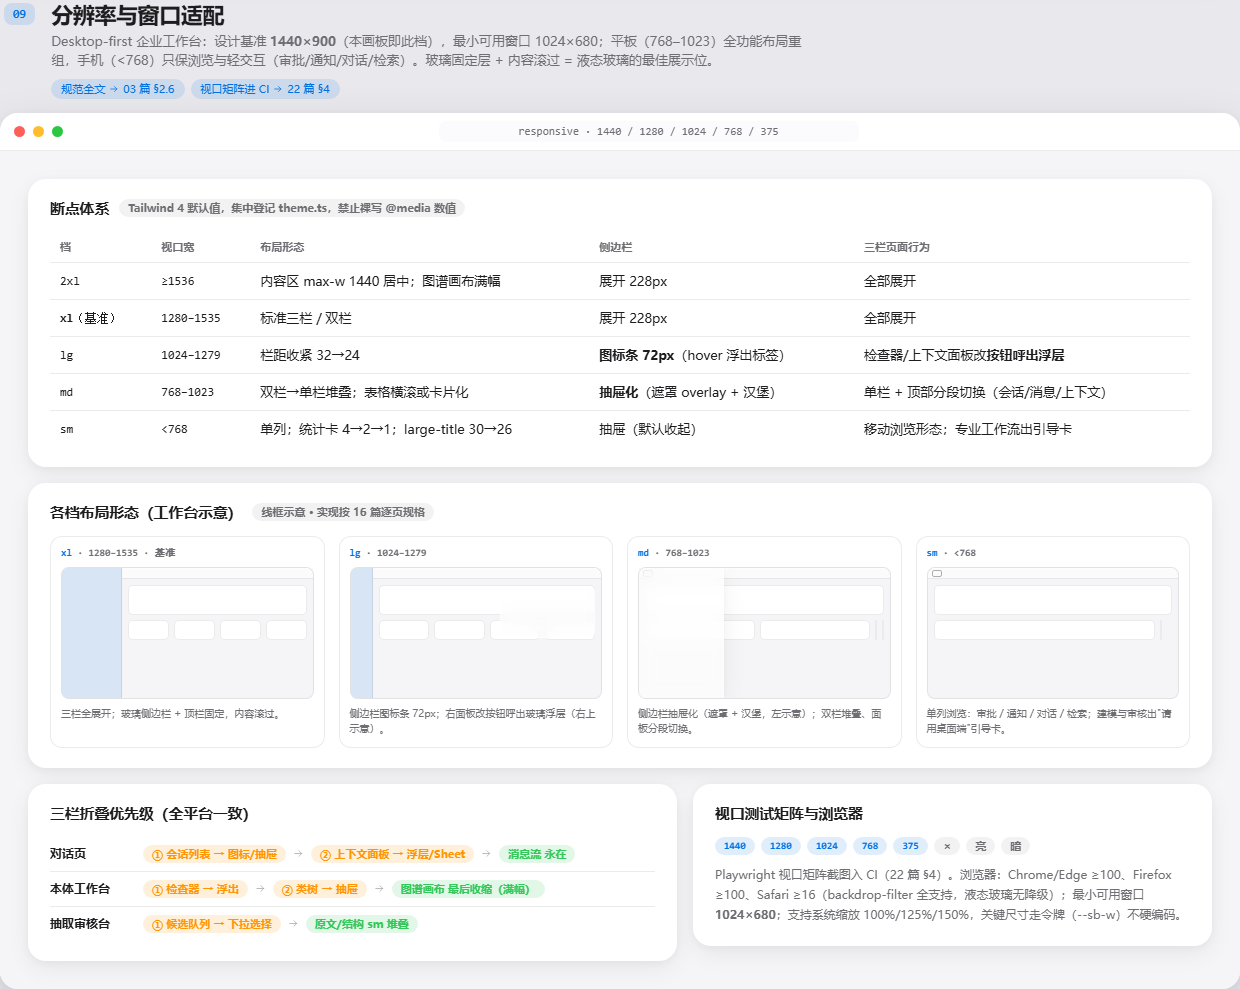
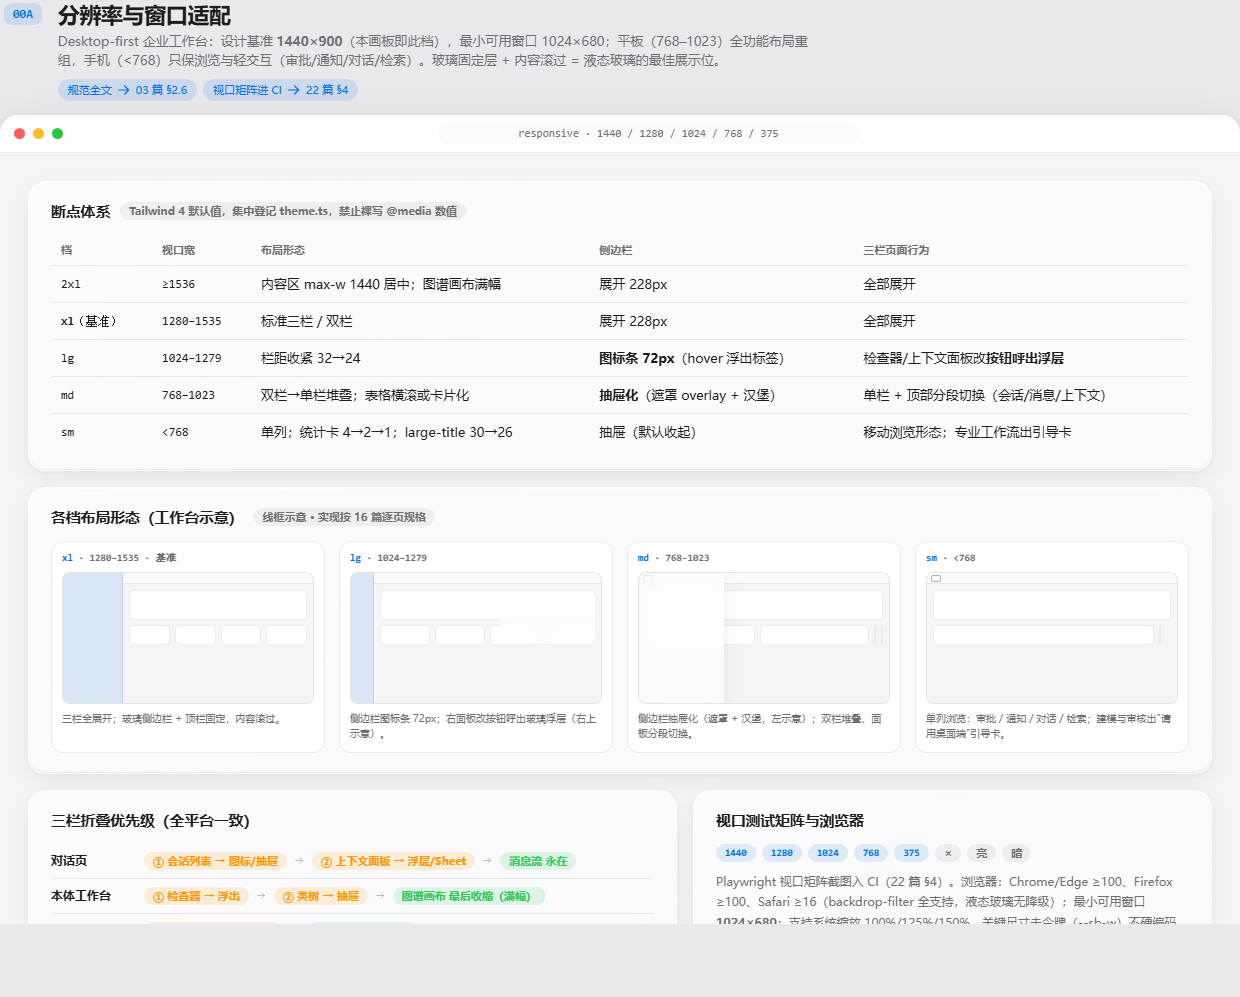
refactor(design): 分辨率与窗口适配画框移入组件库页（00A）——约束类内容与页面设计物理分离，UI 设计稿页聚焦 15 页纯页面设计

diff --git a/docs/设计稿/components.html b/docs/设计稿/components.html
@@ -53,7 +53,7 @@
       <small>设计令牌 · 玻璃三档 · 基元/模式组件 · 动效 · 依据 docs/架构设计/03+24 篇 · 2026-09-26</small>
     </div>
     <nav class="bh-nav">
-      <a href="#p-system">组件总览</a><a href="#sec-glass">液态玻璃</a><a href="#sec-ext">扩充组件</a><a href="#motion-demo">动效展演</a>
+      <a href="#p-system">组件总览</a><a href="#sec-glass">液态玻璃</a><a href="#sec-ext">扩充组件</a><a href="#motion-demo">动效展演</a><a href="#p-responsive">分辨率适配</a>
       <a href="./ui-pages.html" style="color:var(--accent);font-weight:600">UI 设计稿 →</a>
     </nav>
     <button class="theme-btn" onclick="document.documentElement.classList.toggle('dark')">切换亮 / 暗</button>
@@ -329,6 +329,89 @@
       </div>
     </div></div>
   </section>
+<section class="frame" id="p-responsive">
+    <div class="frame-head">
+      <div class="fnum">00A</div>
+      <div>
+        <h2>分辨率与窗口适配</h2>
+        <p>Desktop-first 企业工作台：设计基准 <b>1440×900</b>（本画板即此档），最小可用窗口 1024×680；平板（768–1023）全功能布局重组，手机（&lt;768）只保浏览与轻交互（审批/通知/对话/检索）。玻璃固定层 + 内容滚过 = 液态玻璃的最佳展示位。</p>
+        <div class="jumps"><span class="jump-chip">规范全文 <svg><use href="#i-arrow-r"/></svg> 03 篇 §2.6</span><span class="jump-chip">视口矩阵进 CI <svg><use href="#i-arrow-r"/></svg> 22 篇 §4</span></div>
+      </div>
+    </div>
+    <div class="browser"><div class="bbar"><span class="bdot" style="background:#ff5f57"></span><span class="bdot" style="background:#febc2e"></span><span class="bdot" style="background:#28c840"></span><span class="burl">responsive · 1440 / 1280 / 1024 / 768 / 375</span></div>
+      <div style="background:var(--bg);padding:28px;color:var(--label);font-size:13px">
+        <div class="card">
+          <div class="card-h"><h3>断点体系</h3><span class="badge b-gray">Tailwind 4 默认值，集中登记 theme.ts，禁止裸写 @media 数值</span></div>
+          <table class="tbl">
+            <tr><th>档</th><th>视口宽</th><th>布局形态</th><th>侧边栏</th><th>三栏页面行为</th></tr>
+            <tr><td class="mono">2xl</td><td class="mono">≥1536</td><td>内容区 max-w 1440 居中；图谱画布满幅</td><td>展开 228px</td><td>全部展开</td></tr>
+            <tr><td class="mono"><b>xl</b>（基准）</td><td class="mono">1280–1535</td><td>标准三栏 / 双栏</td><td>展开 228px</td><td>全部展开</td></tr>
+            <tr><td class="mono">lg</td><td class="mono">1024–1279</td><td>栏距收紧 32→24</td><td><b>图标条 72px</b>（hover 浮出标签）</td><td>检查器/上下文面板改<b>按钮呼出浮层</b></td></tr>
+            <tr><td class="mono">md</td><td class="mono">768–1023</td><td>双栏→单栏堆叠；表格横滚或卡片化</td><td><b>抽屉化</b>（遮罩 overlay + 汉堡）</td><td>单栏 + 顶部分段切换（会话/消息/上下文）</td></tr>
+            <tr><td class="mono">sm</td><td class="mono">&lt;768</td><td>单列；统计卡 4→2→1；large-title 30→26</td><td>抽屉（默认收起）</td><td>移动浏览形态；专业工作流出引导卡</td></tr>
+          </table>
+        </div>
+        <div class="card" style="margin-top:16px">
+          <div class="card-h"><h3>各档布局形态（工作台示意）</h3><span class="badge b-gray">线框示意 · 实现按 16 篇逐页规格</span></div>
+          <div class="bp-row">
+            <div class="bp-card">
+              <div class="bp-tag"><b>xl</b> · 1280–1535 · 基准</div>
+              <div class="bp-demo">
+                <span class="bp-sb" style="width:24%"></span>
+                <span class="bp-main"><span class="bp-tb"></span>
+                  <span class="bp-body"><span class="bp-blk wide"></span><span class="bp-blk"></span><span class="bp-blk"></span><span class="bp-blk"></span><span class="bp-blk"></span></span></span>
+              </div>
+              <div class="bp-note">三栏全展开；玻璃侧边栏 + 顶栏固定，内容滚过。</div>
+            </div>
+            <div class="bp-card">
+              <div class="bp-tag"><b>lg</b> · 1024–1279</div>
+              <div class="bp-demo">
+                <span class="bp-sb" style="width:9%"></span>
+                <span class="bp-main"><span class="bp-tb"></span>
+                  <span class="bp-body"><span class="bp-blk wide"></span><span class="bp-blk"></span><span class="bp-blk"></span><span class="bp-blk"></span><span class="bp-blk"></span></span></span>
+                <span class="bp-float"></span>
+              </div>
+              <div class="bp-note">侧边栏图标条 72px；右面板改按钮呼出玻璃浮层（右上示意）。</div>
+            </div>
+            <div class="bp-card">
+              <div class="bp-tag"><b>md</b> · 768–1023</div>
+              <div class="bp-demo">
+                <span class="bp-main"><span class="bp-tb" style="position:relative"><span style="position:absolute;left:4px;top:2px;width:10px;height:7px;border-radius:2px;border:1px solid var(--label-3)"></span></span>
+                  <span class="bp-body" style="grid-template-columns:1fr 1fr"><span class="bp-blk wide"></span><span class="bp-blk"></span><span class="bp-blk"></span><span class="bp-blk"></span><span class="bp-blk"></span></span></span>
+                <span class="bp-drawer"></span>
+              </div>
+              <div class="bp-note">侧边栏抽屉化（遮罩 + 汉堡，左示意）；双栏堆叠、面板分段切换。</div>
+            </div>
+            <div class="bp-card">
+              <div class="bp-tag"><b>sm</b> · &lt;768</div>
+              <div class="bp-demo">
+                <span class="bp-main"><span class="bp-tb" style="position:relative"><span style="position:absolute;left:4px;top:2px;width:10px;height:7px;border-radius:2px;border:1px solid var(--label-3)"></span></span>
+                  <span class="bp-body" style="grid-template-columns:1fr"><span class="bp-blk wide"></span><span class="bp-blk"></span><span class="bp-blk"></span></span></span>
+              </div>
+              <div class="bp-note">单列浏览：审批 / 通知 / 对话 / 检索；建模与审核出"请用桌面端"引导卡。</div>
+            </div>
+          </div>
+        </div>
+        <div class="grid2" style="margin-top:16px;grid-template-columns:1.25fr 1fr;align-items:start">
+          <div class="card">
+            <div class="card-h"><h3>三栏折叠优先级（全平台一致）</h3></div>
+            <div class="fold-row"><b>对话页</b><span class="badge b-orange">① 会话列表 → 图标/抽屉</span><svg style="width:11px;height:11px;color:var(--label-3)"><use href="#i-arrow-r"/></svg><span class="badge b-orange">② 上下文面板 → 浮层/Sheet</span><svg style="width:11px;height:11px;color:var(--label-3)"><use href="#i-arrow-r"/></svg><span class="badge b-green">消息流 永在</span></div>
+            <div class="fold-row"><b>本体工作台</b><span class="badge b-orange">① 检查器 → 浮出</span><svg style="width:11px;height:11px;color:var(--label-3)"><use href="#i-arrow-r"/></svg><span class="badge b-orange">② 类树 → 抽屉</span><svg style="width:11px;height:11px;color:var(--label-3)"><use href="#i-arrow-r"/></svg><span class="badge b-green">图谱画布 最后收缩（满幅）</span></div>
+            <div class="fold-row"><b>抽取审核台</b><span class="badge b-orange">① 候选队列 → 下拉选择</span><svg style="width:11px;height:11px;color:var(--label-3)"><use href="#i-arrow-r"/></svg><span class="badge b-green">原文/结构 sm 堆叠</span></div>
+          </div>
+          <div class="card">
+            <div class="card-h"><h3>视口测试矩阵与浏览器</h3></div>
+            <div style="display:flex;gap:6px;flex-wrap:wrap;margin-bottom:10px">
+              <span class="ev-chip">1440</span><span class="ev-chip">1280</span><span class="ev-chip">1024</span><span class="ev-chip">768</span><span class="ev-chip">375</span>
+              <span class="badge b-gray">×</span><span class="badge b-gray">亮</span><span class="badge b-gray">暗</span>
+            </div>
+            <p style="font-size:12px;color:var(--label-2);line-height:1.7">Playwright 视口矩阵截图入 CI（22 篇 §4）。浏览器：Chrome/Edge ≥100、Firefox ≥100、Safari ≥16（backdrop-filter 全支持，液态玻璃无降级）；最小可用窗口 <b>1024×680</b>；支持系统缩放 100%/125%/150%，关键尺寸走令牌（--sb-w）不硬编码。</p>
+          </div>
+        </div>
+      </div>
+    </div>
+  </section>
+
   <p style="text-align:center;margin-top:64px;font-size:11px;color:var(--label-3);line-height:1.8">
     ontology-agent 设计稿 v1.5 · 主题令牌与组件样式共享于 assets/board.css（与 frontend/src/design-system/ 同源）<br>
     <a href="./index.html" style="color:var(--accent)">← 返回设计稿入口</a> · 验收依据 23 篇 DoD · 审计报告 ui-audit.md

diff --git a/docs/设计稿/ui-pages.html b/docs/设计稿/ui-pages.html
@@ -59,7 +59,7 @@
       <a href="#p-review">抽取审核</a><a href="#p-kb">知识库</a><a href="#p-explore">图谱</a>
       <a href="#p-memory">记忆</a><a href="#p-agents">Agent</a><a href="#p-market">插件市场</a>
       <a href="#p-tools">工具技能</a><a href="#p-mcp">MCP</a><a href="#p-approve">审批中心</a>
-      <a href="#p-admin">系统</a><a href="#p-responsive">适配</a>
+      <a href="#p-admin">系统</a>
     </nav>
     <button class="theme-btn" onclick="document.documentElement.classList.toggle('dark')">切换亮 / 暗</button>
   </header>
@@ -706,88 +706,6 @@
               <div style="display:flex;flex-direction:column;gap:6px;justify-content:center">
                 <button class="btn btn-p btn-sm">确认执行</button><button class="btn btn-d btn-sm">拒绝</button></div>
             </div>
-          </div>
-        </div>
-      </div>
-    </div>
-  </section>
-<section class="frame" id="p-responsive">
-    <div class="frame-head">
-      <div class="fnum">09</div>
-      <div>
-        <h2>分辨率与窗口适配</h2>
-        <p>Desktop-first 企业工作台：设计基准 <b>1440×900</b>（本画板即此档），最小可用窗口 1024×680；平板（768–1023）全功能布局重组，手机（&lt;768）只保浏览与轻交互（审批/通知/对话/检索）。玻璃固定层 + 内容滚过 = 液态玻璃的最佳展示位。</p>
-        <div class="jumps"><span class="jump-chip">规范全文 <svg><use href="#i-arrow-r"/></svg> 03 篇 §2.6</span><span class="jump-chip">视口矩阵进 CI <svg><use href="#i-arrow-r"/></svg> 22 篇 §4</span></div>
-      </div>
-    </div>
-    <div class="browser"><div class="bbar"><span class="bdot" style="background:#ff5f57"></span><span class="bdot" style="background:#febc2e"></span><span class="bdot" style="background:#28c840"></span><span class="burl">responsive · 1440 / 1280 / 1024 / 768 / 375</span></div>
-      <div style="background:var(--bg);padding:28px;color:var(--label);font-size:13px">
-        <div class="card">
-          <div class="card-h"><h3>断点体系</h3><span class="badge b-gray">Tailwind 4 默认值，集中登记 theme.ts，禁止裸写 @media 数值</span></div>
-          <table class="tbl">
-            <tr><th>档</th><th>视口宽</th><th>布局形态</th><th>侧边栏</th><th>三栏页面行为</th></tr>
-            <tr><td class="mono">2xl</td><td class="mono">≥1536</td><td>内容区 max-w 1440 居中；图谱画布满幅</td><td>展开 228px</td><td>全部展开</td></tr>
-            <tr><td class="mono"><b>xl</b>（基准）</td><td class="mono">1280–1535</td><td>标准三栏 / 双栏</td><td>展开 228px</td><td>全部展开</td></tr>
-            <tr><td class="mono">lg</td><td class="mono">1024–1279</td><td>栏距收紧 32→24</td><td><b>图标条 72px</b>（hover 浮出标签）</td><td>检查器/上下文面板改<b>按钮呼出浮层</b></td></tr>
-            <tr><td class="mono">md</td><td class="mono">768–1023</td><td>双栏→单栏堆叠；表格横滚或卡片化</td><td><b>抽屉化</b>（遮罩 overlay + 汉堡）</td><td>单栏 + 顶部分段切换（会话/消息/上下文）</td></tr>
-            <tr><td class="mono">sm</td><td class="mono">&lt;768</td><td>单列；统计卡 4→2→1；large-title 30→26</td><td>抽屉（默认收起）</td><td>移动浏览形态；专业工作流出引导卡</td></tr>
-          </table>
-        </div>
-        <div class="card" style="margin-top:16px">
-          <div class="card-h"><h3>各档布局形态（工作台示意）</h3><span class="badge b-gray">线框示意 · 实现按 16 篇逐页规格</span></div>
-          <div class="bp-row">
-            <div class="bp-card">
-              <div class="bp-tag"><b>xl</b> · 1280–1535 · 基准</div>
-              <div class="bp-demo">
-                <span class="bp-sb" style="width:24%"></span>
-                <span class="bp-main"><span class="bp-tb"></span>
-                  <span class="bp-body"><span class="bp-blk wide"></span><span class="bp-blk"></span><span class="bp-blk"></span><span class="bp-blk"></span><span class="bp-blk"></span></span></span>
-              </div>
-              <div class="bp-note">三栏全展开；玻璃侧边栏 + 顶栏固定，内容滚过。</div>
-            </div>
-            <div class="bp-card">
-              <div class="bp-tag"><b>lg</b> · 1024–1279</div>
-              <div class="bp-demo">
-                <span class="bp-sb" style="width:9%"></span>
-                <span class="bp-main"><span class="bp-tb"></span>
-                  <span class="bp-body"><span class="bp-blk wide"></span><span class="bp-blk"></span><span class="bp-blk"></span><span class="bp-blk"></span><span class="bp-blk"></span></span></span>
-                <span class="bp-float"></span>
-              </div>
-              <div class="bp-note">侧边栏图标条 72px；右面板改按钮呼出玻璃浮层（右上示意）。</div>
-            </div>
-            <div class="bp-card">
-              <div class="bp-tag"><b>md</b> · 768–1023</div>
-              <div class="bp-demo">
-                <span class="bp-main"><span class="bp-tb" style="position:relative"><span style="position:absolute;left:4px;top:2px;width:10px;height:7px;border-radius:2px;border:1px solid var(--label-3)"></span></span>
-                  <span class="bp-body" style="grid-template-columns:1fr 1fr"><span class="bp-blk wide"></span><span class="bp-blk"></span><span class="bp-blk"></span><span class="bp-blk"></span><span class="bp-blk"></span></span></span>
-                <span class="bp-drawer"></span>
-              </div>
-              <div class="bp-note">侧边栏抽屉化（遮罩 + 汉堡，左示意）；双栏堆叠、面板分段切换。</div>
-            </div>
-            <div class="bp-card">
-              <div class="bp-tag"><b>sm</b> · &lt;768</div>
-              <div class="bp-demo">
-                <span class="bp-main"><span class="bp-tb" style="position:relative"><span style="position:absolute;left:4px;top:2px;width:10px;height:7px;border-radius:2px;border:1px solid var(--label-3)"></span></span>
-                  <span class="bp-body" style="grid-template-columns:1fr"><span class="bp-blk wide"></span><span class="bp-blk"></span><span class="bp-blk"></span></span></span>
-              </div>
-              <div class="bp-note">单列浏览：审批 / 通知 / 对话 / 检索；建模与审核出"请用桌面端"引导卡。</div>
-            </div>
-          </div>
-        </div>
-        <div class="grid2" style="margin-top:16px;grid-template-columns:1.25fr 1fr;align-items:start">
-          <div class="card">
-            <div class="card-h"><h3>三栏折叠优先级（全平台一致）</h3></div>
-            <div class="fold-row"><b>对话页</b><span class="badge b-orange">① 会话列表 → 图标/抽屉</span><svg style="width:11px;height:11px;color:var(--label-3)"><use href="#i-arrow-r"/></svg><span class="badge b-orange">② 上下文面板 → 浮层/Sheet</span><svg style="width:11px;height:11px;color:var(--label-3)"><use href="#i-arrow-r"/></svg><span class="badge b-green">消息流 永在</span></div>
-            <div class="fold-row"><b>本体工作台</b><span class="badge b-orange">① 检查器 → 浮出</span><svg style="width:11px;height:11px;color:var(--label-3)"><use href="#i-arrow-r"/></svg><span class="badge b-orange">② 类树 → 抽屉</span><svg style="width:11px;height:11px;color:var(--label-3)"><use href="#i-arrow-r"/></svg><span class="badge b-green">图谱画布 最后收缩（满幅）</span></div>
-            <div class="fold-row"><b>抽取审核台</b><span class="badge b-orange">① 候选队列 → 下拉选择</span><svg style="width:11px;height:11px;color:var(--label-3)"><use href="#i-arrow-r"/></svg><span class="badge b-green">原文/结构 sm 堆叠</span></div>
-          </div>
-          <div class="card">
-            <div class="card-h"><h3>视口测试矩阵与浏览器</h3></div>
-            <div style="display:flex;gap:6px;flex-wrap:wrap;margin-bottom:10px">
-              <span class="ev-chip">1440</span><span class="ev-chip">1280</span><span class="ev-chip">1024</span><span class="ev-chip">768</span><span class="ev-chip">375</span>
-              <span class="badge b-gray">×</span><span class="badge b-gray">亮</span><span class="badge b-gray">暗</span>
-            </div>
-            <p style="font-size:12px;color:var(--label-2);line-height:1.7">Playwright 视口矩阵截图入 CI（22 篇 §4）。浏览器：Chrome/Edge ≥100、Firefox ≥100、Safari ≥16（backdrop-filter 全支持，液态玻璃无降级）；最小可用窗口 <b>1024×680</b>；支持系统缩放 100%/125%/150%，关键尺寸走令牌（--sb-w）不硬编码。</p>
           </div>
         </div>
       </div>

diff --git a/docs/设计稿/README.md b/docs/设计稿/README.md
@@ -7,7 +7,7 @@
 ## 怎么看（v1.5 起物理分离）
 
 - **入口**：[index.html](./index.html)
-- **[components.html](./components.html) 前端组件库**：设计令牌、玻璃三档、基元/模式组件、扩充组件、动效展演——**主题与样式约束的物理载体**；
+- **[components.html](./components.html) 前端组件库**：设计令牌、玻璃三档、基元/模式组件、扩充组件、动效展演、**分辨率与窗口适配（00A）**——**主题与样式约束的物理载体**；
 - **[ui-pages.html](./ui-pages.html) UI 设计稿**：15 个页面画框 + 分辨率适配——**页面结构与跳转关系的物理载体**；
 - 两页共享 [assets/board.css](./assets/board.css)（主题令牌单一来源，与 frontend/src/design-system/ 样式库同名同源）；右上角可切换亮暗。
 
@@ -24,8 +24,7 @@
 | 06 | 记忆管理（四层切换 / 时间线含失效边 / 升级审批） | `/memory` |
 | 07 | 插件市场（卡片 + 权限 scope 徽标） | `/marketplace` |
 | 08 | 审批中心（五类对象统一卡片） | `/approvals` |
-| 09 | 分辨率与窗口适配（断点体系 / 各档线框 / 三栏折叠优先级 / 视口矩阵） | 全局 |
-| 10–16 | 本体项目列表 / 知识库 / 图谱浏览 / Agent 管理 / 工具与技能 / MCP 管理 / 系统管理（v1.3 补齐，03 篇路由表 15 页全覆盖） | `/ontology` `/kb` `/kb/explore` `/agents` `/tools` `/mcp` `/admin` |
+| 09–15 | 本体项目列表 / 知识库 / 图谱浏览 / Agent 管理 / 工具与技能 / MCP 管理 / 系统管理（03 篇路由表 15 页全覆盖） | `/ontology` `/kb` `/kb/explore` `/agents` `/tools` `/mcp` `/admin` |
 
 每个画框上方标注了**组件构成**与**页面跳转关系**（与 03 篇 §4.1 导航图一一对应）。`preview/` 目录是各画框的静态截图（含 2 张暗色），便于评审引用；**元素级审计报告见 [ui-audit.md](./ui-audit.md)**（视觉检测 + 源码扫描双手段，v1.3 全绿）。
 
